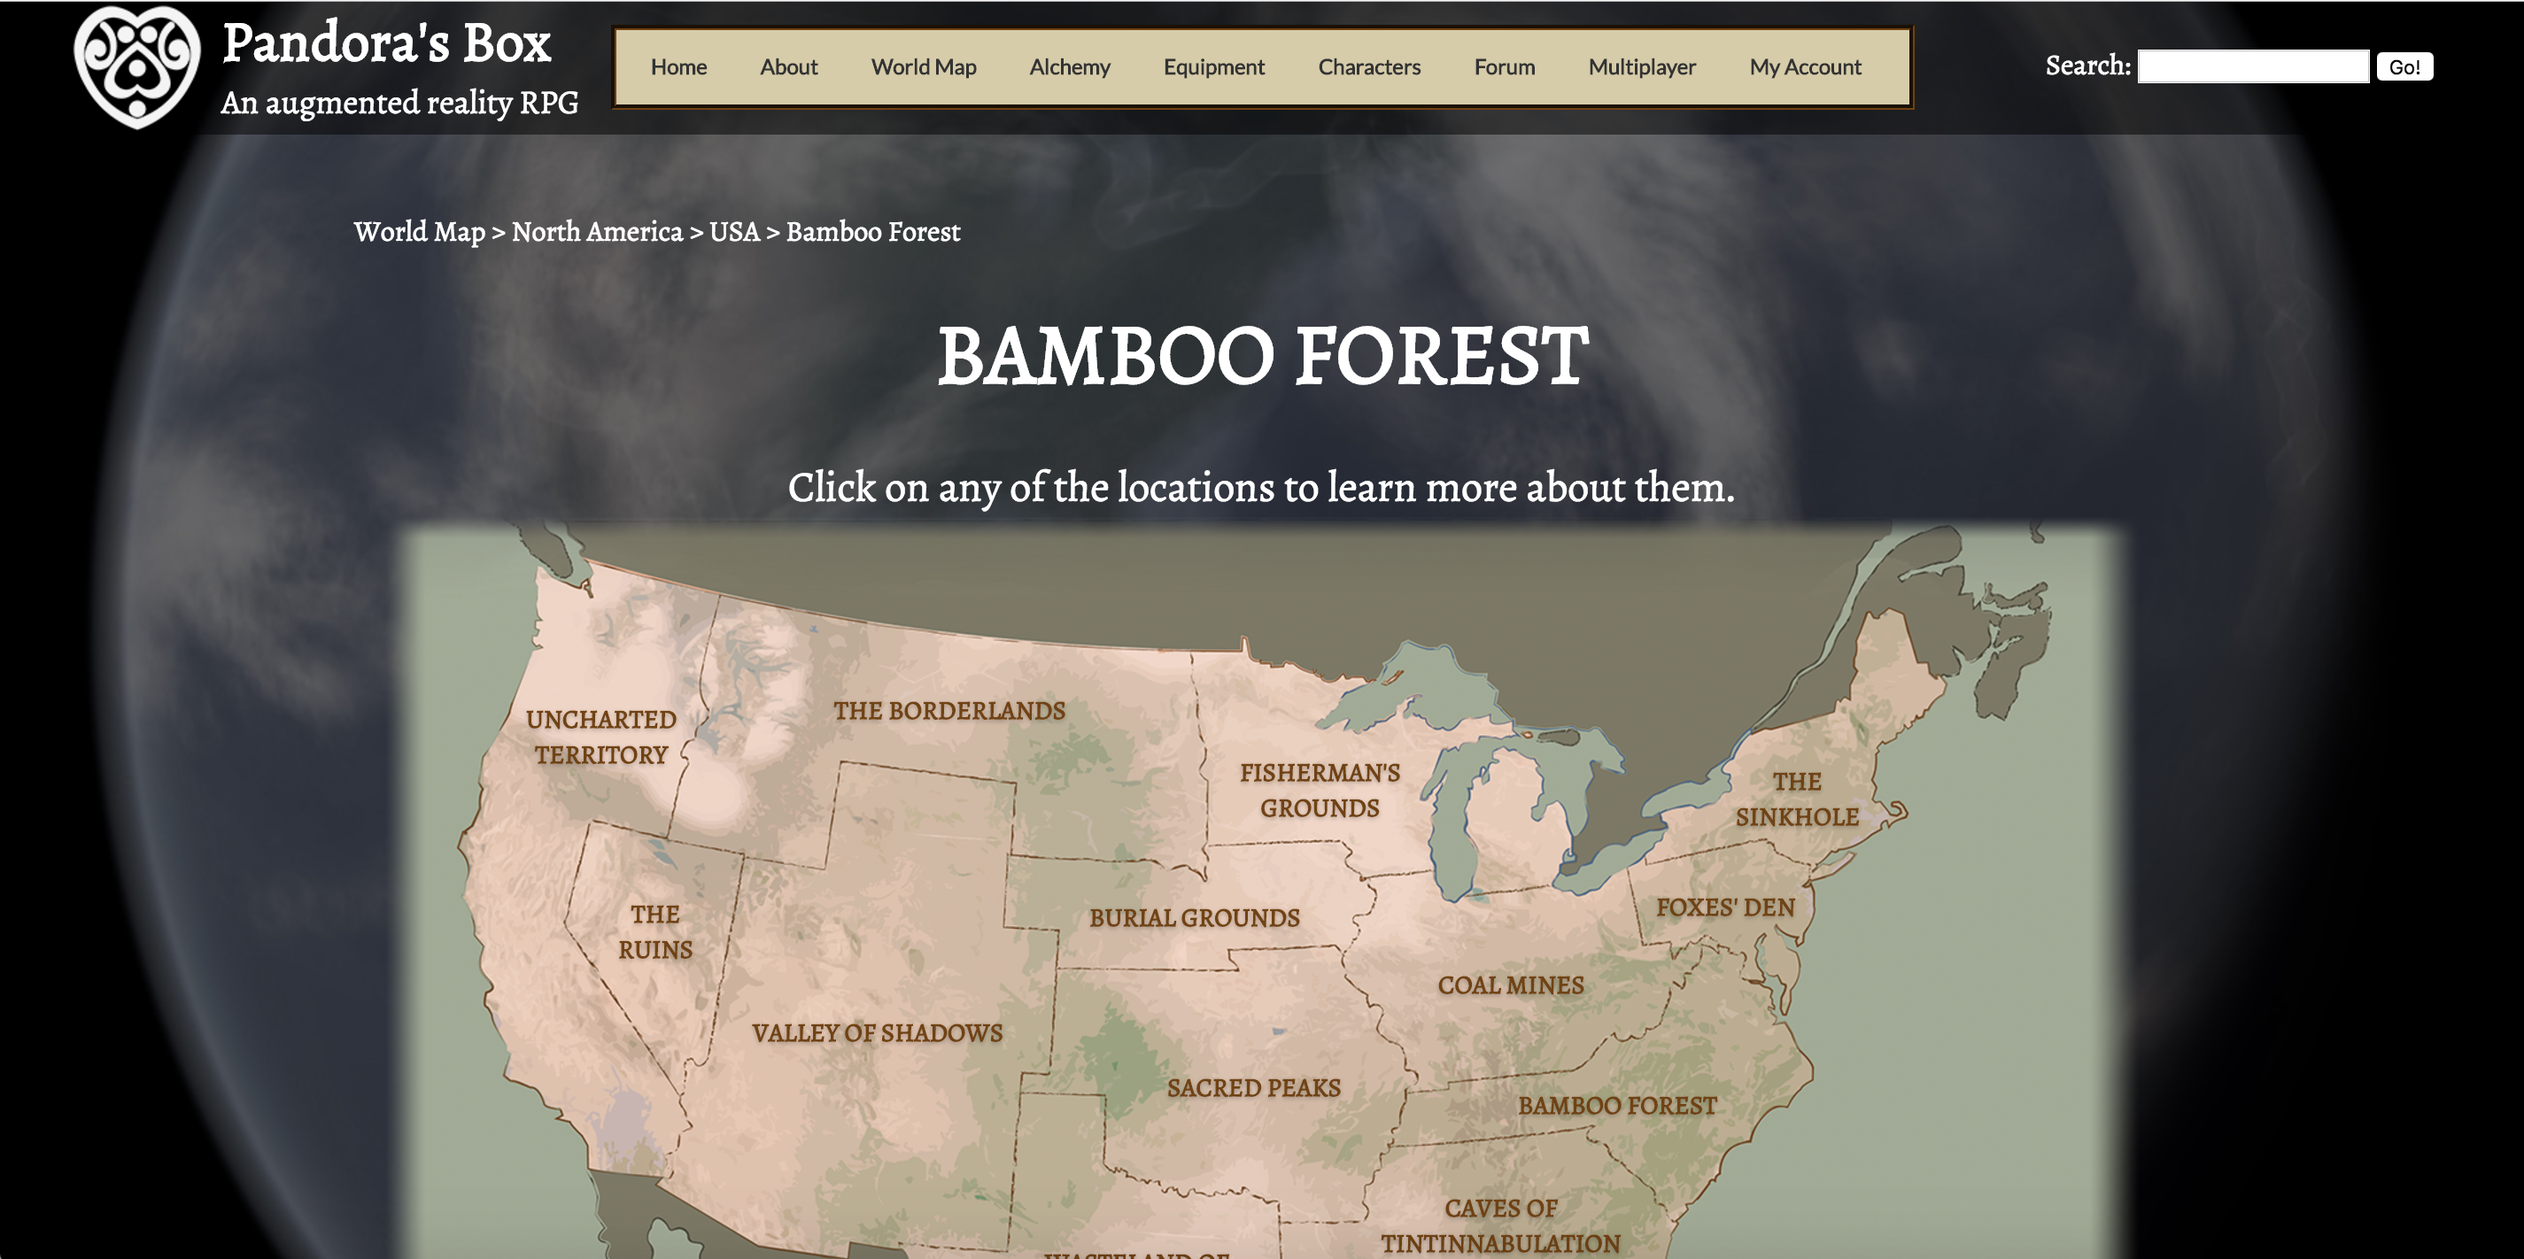
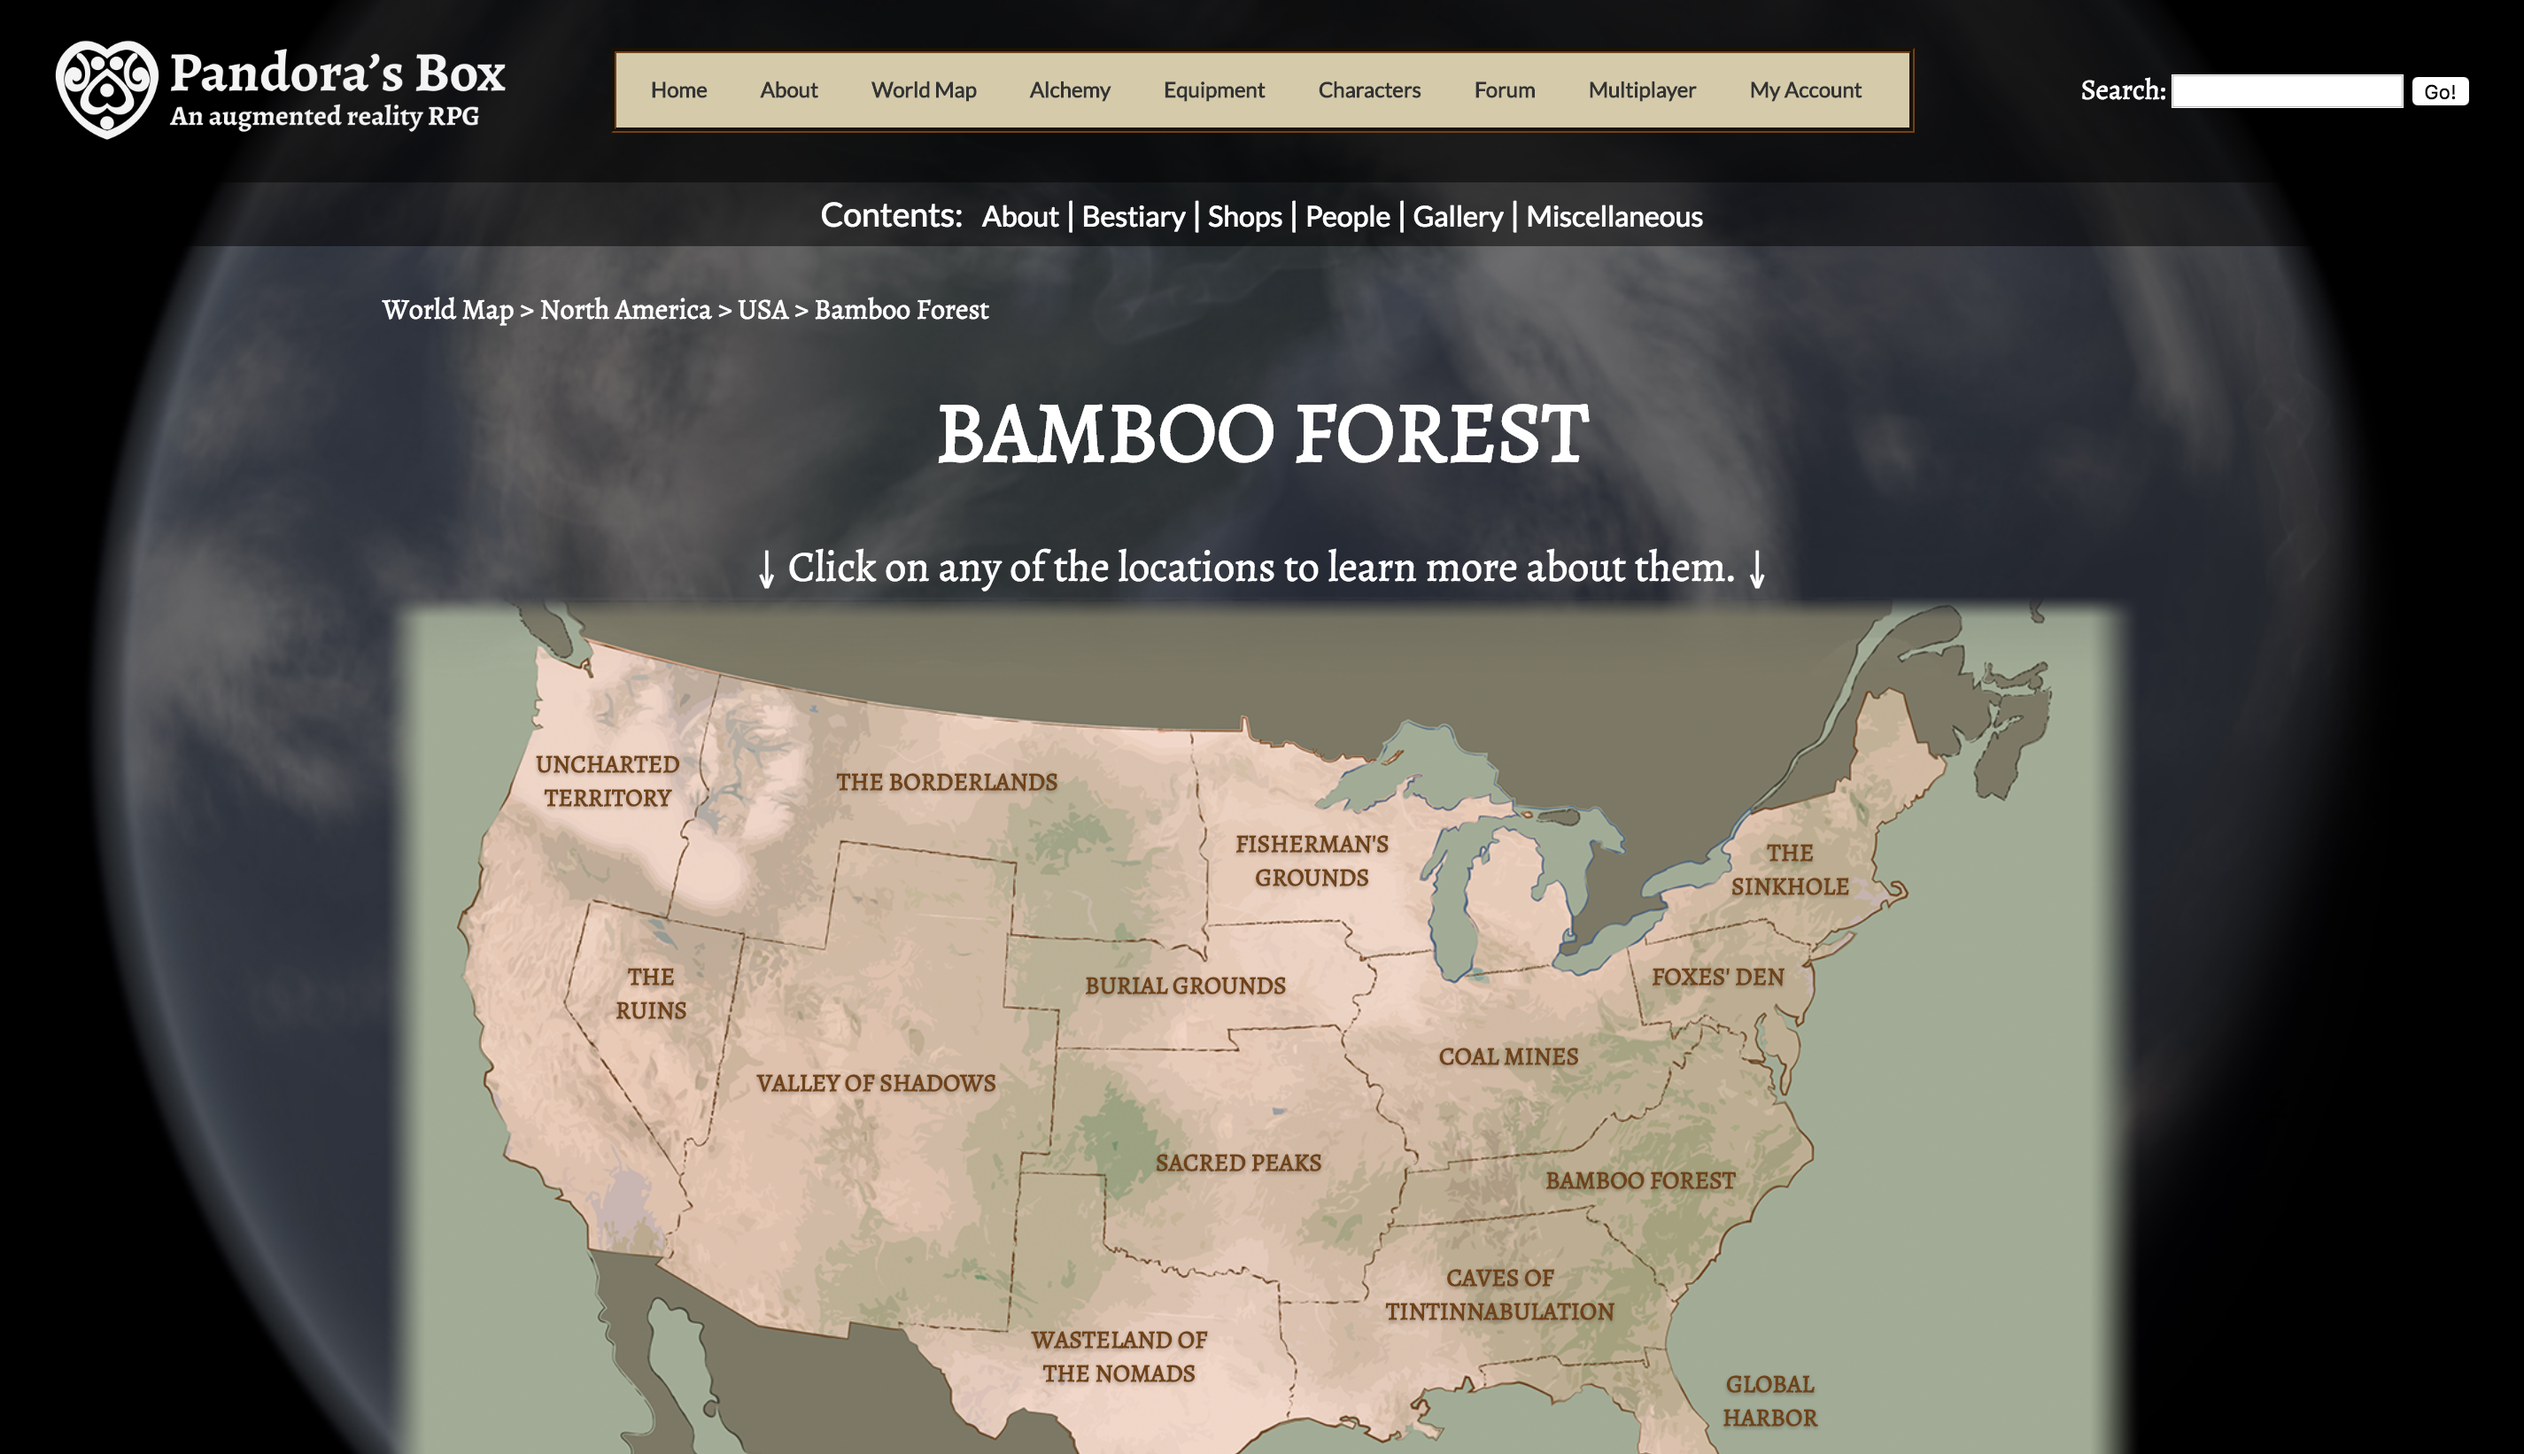
updated pandora's box content

diff --git a/gallery-gd/pandoras-box.html b/gallery-gd/pandoras-box.html
@@ -55,7 +55,7 @@
 	<!--||||||||||||||||||||--><!--||||||||||||||||||||-->
 
 		<div class="larger-margin">
-            <h1 class="page-title"><a href="pandoras-box.html">Pandora's Box</a></h1>
+            <h1><a href="pandoras-box.html">Pandora's Box</a></h1>
             <h3 class="subtitle">A comprehensive webpage detailing a location in a fictional game</h3>
 		</div>
 
@@ -69,10 +69,12 @@
         <div class="larger-margin">
             <img src="../gallery-img/pandoras-box-start.png" class="project-pics">
             <br>
-            <iframe width="560" height="315" src="https://www.youtube.com/embed/YuRWtrfQ2LU" frameborder="0" allowfullscreen></iframe>
-            <!-- would be pretty awesome if I could get it to embed correctly
-            <embed src="http://textimage.org/inventory/jlang2/" style="width:100%; height: 100%;">
-            -->
+            <iframe width="560" height="315" src="https://www.youtube.com/embed/zSKsG-HL9nE" frameborder="0" allowfullscreen></iframe>
+						<br>
+						<iframe src="https://jlangdesign.github.io/pandoras-box/" allowfullscreen></iframe>
+						<a href="https://jlangdesign.github.io/pandoras-box/" target="_blank" class="links pdf-links">
+                <p>(Click here to open display in new tab)</p>
+            </a>
             <br>
 
             <h1 class="story-section">Overview</h1>
@@ -122,9 +124,6 @@
             <br>
 
             <h1 class="story-chapter">Results</h1>
-            <!--
-            <iframe width="560" height="315" src="https://www.youtube.com/embed/YuRWtrfQ2LU" frameborder="0" allowfullscreen></iframe>
-            -->
             <p>
             What I ended up with was a web display full of different actions to explore. The user feels compelled to try hovering over or clicking on everything to see what happens because all the items seem to behave differently. For instance,the map glows based on which territory you're hovering over, the picture in the "About" section changes between day and night when you click on it, and the Bestiary monsters change states when you hover over them to reflect the information in their description. There is lots of scrolling, but there are multiple layers of links to facilitate navigation. Currently, the big map only displays correctly on my computer, so that is something I'd like to fix (once I figure out how to do so, that is).
             </p>
@@ -132,11 +131,11 @@
 
             <h1 class="story-section">Links</h1>
             <p class="links"><a href="https://drive.google.com/drive/folders/0B1Jb2pATB84RQUw4LVhOYUExZVU?usp=sharing" target="_blank">Process pictures</a></p>
-            <p class="links"><a href="http://textimage.org/inventory/jlang2" target="_blank">Pandora's Box - Bamboo Forest (web display)</a></p>
+            <p class="links"><a href="https://jlangdesign.github.io/pandoras-box/" target="_blank">Pandora's Box - Bamboo Forest (web display)</a></p>
             <p class="links"><a href="https://youtu.be/YuRWtrfQ2LU" target="_blank">Screengrab of the hover states (how they should ideally work)</a></p>
             <br>
 
-            <a href="../gallery.html"><p class="button return-button">- Return to Gallery -</p></a>
+            <a href="../gallery.html"><p class="return-button">- Return to Gallery -</p></a>
 		</div>
 
 	</body>
